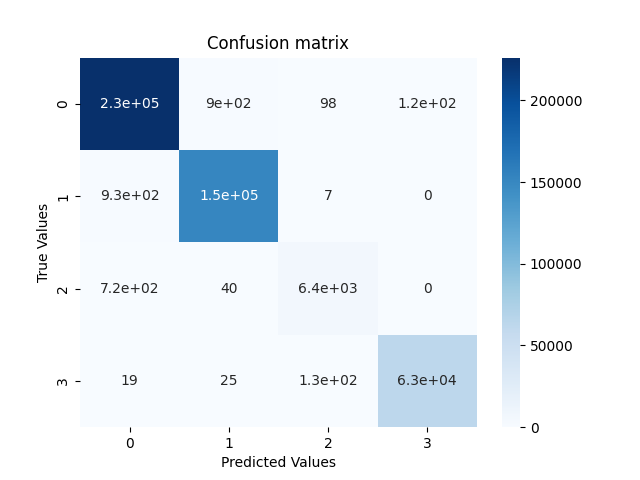
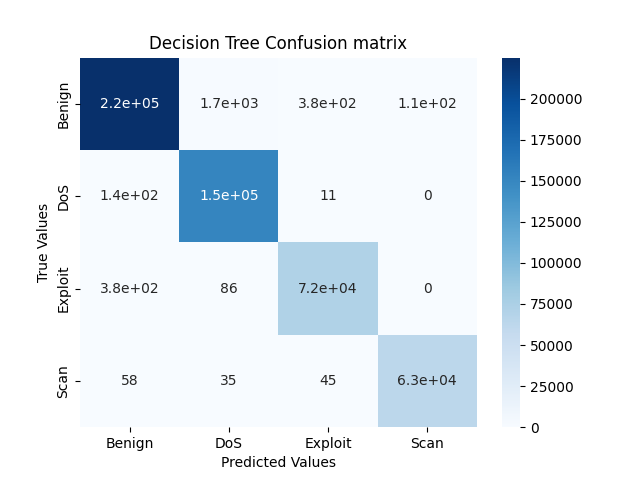
Project 3: NID - Add upsampling - Replace Decision Tree plot with feature importance

diff --git a/network_intrusion_detection/training.py b/network_intrusion_detection/training.py
@@ -17,11 +17,14 @@ def train_decision_tree(train: DataFrame, split_type: str) -> DecisionTreeClassi
     X = train.drop(['Label'], axis='columns')
     y = train['Label']
 
-    decision_tree = DecisionTreeClassifier(max_depth=10)
+    decision_tree = DecisionTreeClassifier(max_depth=10, random_state=preprocessing.RANDOM_STATE)
     decision_tree.fit(X, y)
 
     outfile = os.path.join(plots_dir, f'decision_tree-{split_type}-features.png')
-    metrics.plot_decision_tree(decision_tree, X.columns, preprocessing.label_encoder.inverse_transform(y.unique()), outfile)
+    features_mask = decision_tree.feature_importances_ > 0.04
+    metrics.plot_feature_importance(decision_tree.feature_importances_[features_mask],
+                                    X.columns[features_mask],
+                                    "Decision Tree", outfile)
 
     return decision_tree
 
@@ -30,11 +33,16 @@ def train_random_forest(train: DataFrame, split_type: str) -> RandomForestClassi
     X = train.drop(['Label'], axis='columns')
     y = train['Label']
 
-    random_forest = RandomForestClassifier(max_depth=10, n_jobs=4, max_features=10)
+    random_forest = RandomForestClassifier(max_depth=10, n_jobs=4, max_features=10,
+                                           random_state=preprocessing.RANDOM_STATE)
     random_forest.fit(X, y)
 
     outfile = os.path.join(plots_dir, f'random_forest-{split_type}-features.png')
-    metrics.plot_feature_importance(random_forest.feature_importances_[:10], X.columns[:10], outfile)
+    features_mask = random_forest.feature_importances_ > 0.04
+    metrics.plot_feature_importance(random_forest.feature_importances_[features_mask],
+                                    X.columns[features_mask],
+                                    "Random Forest", outfile)
+
     return random_forest
 
 
@@ -47,9 +55,15 @@ def test_model(which: Literal['decision_tree', 'random_forest'], splitmode: floa
     y_true = test['Label']
     y_pred = model.predict(X_test)
 
-    print(classification_report(y_true, y_pred, digits=4))
+    print(classification_report(preprocessing.label_encoder.inverse_transform(y_true),
+                                preprocessing.label_encoder.inverse_transform(y_pred),
+                                labels=preprocessing.label_encoder.classes_, digits=4))
     outfile = os.path.join(plots_dir, f'{which}-{split_type}-conf_matrix.png')
-    metrics.plot_confusion_matrix(y_true, y_pred, outfile)
+    metrics.plot_confusion_matrix(preprocessing.label_encoder.inverse_transform(y_true),
+                                  preprocessing.label_encoder.inverse_transform(y_pred),
+                                  preprocessing.label_encoder.classes_,
+                                  "Decision Tree" if which == 'decision_tree' else "Random Forest",
+                                  outfile)
 
 
 def main(which: Literal['tree', 'forest', 'all'] = 'all'):

diff --git a/network_intrusion_detection/preprocessing.py b/network_intrusion_detection/preprocessing.py
@@ -49,10 +49,32 @@ def undersample(dframe: pd.DataFrame, magnitude: float) -> pd.DataFrame:
     others = dframe[y != "Benign"]
 
     benign_undersampled = resample(benign, replace=False,
-                    n_samples=int(len(benign) * magnitude),
-                    random_state=RANDOM_STATE)
+                                   n_samples=int(len(benign) * magnitude),
+                                   random_state=RANDOM_STATE)
 
     return pd.concat([benign_undersampled, others])
+
+
+def upsample(dframe: pd.DataFrame, magnitude: float) -> pd.DataFrame:
+    """
+    Performs upsampling of "Exploit" entries in the given DataFrame.
+
+    :param dframe: The DataFrame to perform upsampling on.
+    :param magnitude: How many times to upsample the data, may be greater than 1.
+    :return: A new DataFrame containing the upsampled entries.
+    """
+    y = dframe["Label"]
+    exploit = dframe[y == "Exploit"]
+    others = dframe[y != "Exploit"]
+
+    if len(exploit) < 0:
+        return dframe
+
+    exploit_upsampled = resample(exploit, replace=True,
+                                 n_samples=int(len(exploit) * magnitude),
+                                 random_state=RANDOM_STATE)
+
+    return pd.concat([exploit_upsampled, others])
 
 
 def preprocess(dframe: pd.DataFrame) -> pd.DataFrame:
@@ -60,9 +82,12 @@ def preprocess(dframe: pd.DataFrame) -> pd.DataFrame:
     dframe["Label"] = dframe["Label"].map(change_label) # Remap labels
 
     dframe = undersample(dframe, 0.25)
+    dframe = upsample(dframe, 10)
     dframe["Label"] = label_encoder.fit_transform(dframe["Label"])
 
-    dframe.replace([np.inf, -np.inf], np.nan, inplace=True) # Replace infinite values
+    # Remove infinite values
+    dframe.replace([np.inf, -np.inf], np.nan, inplace=True)
+    dframe.dropna(inplace=True)
 
     return dframe
 
@@ -85,7 +110,6 @@ def get_dataset(directory: str, splitmode: float = 0.6) -> (pd.DataFrame, pd.Dat
 
     if 0 < splitmode < 1:
         combined = pd.concat([train, test], ignore_index=True)
-        combined = combined.loc[:, (combined != 0).any(axis=0)] # Remove columns with all zeroes
         train, test = train_test_split(combined, train_size=splitmode,
                                        random_state=RANDOM_STATE, stratify=combined["Label"])
 
@@ -94,10 +118,10 @@ def get_dataset(directory: str, splitmode: float = 0.6) -> (pd.DataFrame, pd.Dat
 
 def main():
     train, test = get_dataset('MachineLearningCVE', 0.6)
-    print(train.info())
-    print(test.info())
     print(f'Train:\n{train["Label"].value_counts(normalize=True)}')
+    print(train.info())
     print(f'Test:\n{test["Label"].value_counts(normalize=True)}')
+    print(test.info())
 
 
 if __name__ == '__main__':

diff --git a/network_intrusion_detection/metrics.py b/network_intrusion_detection/metrics.py
@@ -3,29 +3,23 @@ import seaborn as sb
 
 from matplotlib import pyplot as plt
 from sklearn.metrics import confusion_matrix
-from sklearn.tree import plot_tree
 
 
-def plot_confusion_matrix(y_true, y_pred, outfile: str):
-    m = confusion_matrix(y_true, y_pred)
+def plot_confusion_matrix(y_true, y_pred, labels, model_name: str, outfile: str):
+    m = confusion_matrix(y_true, y_pred, labels=labels)
     ax = sb.heatmap(m, annot=True, cmap='Blues')
-    ax.set_title('Confusion matrix')
+    ax.set_title(f'{model_name} Confusion matrix')
     ax.set_xlabel('Predicted Values')
     ax.set_ylabel('True Values')
+    ax.set_xticklabels(labels)
+    ax.set_yticklabels(labels)
     plt.savefig(outfile)
     plt.show()
 
-
-def plot_decision_tree(tree, feature_names, class_names, outfile):
-    plt.figure(figsize=(25, 20))
-    plot_tree(tree, feature_names=feature_names, class_names=class_names, fontsize=13, max_depth=4)
-    plt.savefig(outfile)
-    plt.show()
-
-def plot_feature_importance(importance, feature_names, outfile: str):
+def plot_feature_importance(importance, feature_names, model_name: str, outfile: str):
     indices = np.argsort(importance)
 
-    plt.title("Feature Importance")
+    plt.title(f"{model_name} Feature Importance")
     plt.barh(range(len(indices)), importance[indices], color='b', align='center')
     plt.yticks(range(len(indices)), feature_names[indices])
     plt.xlabel("Relative Importance")
